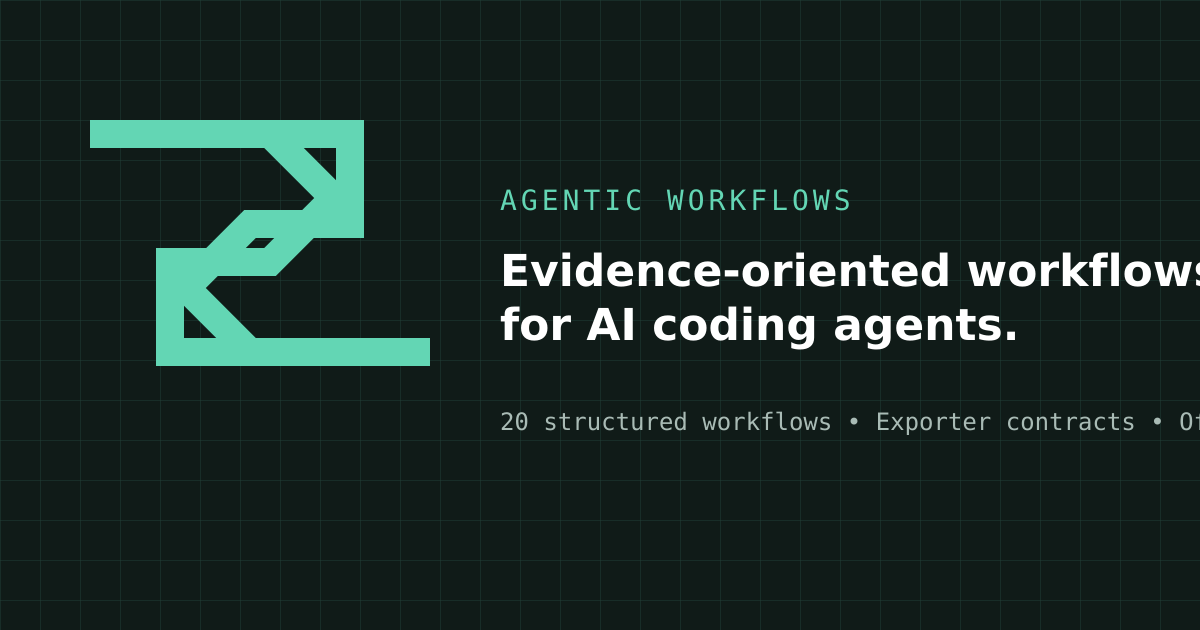
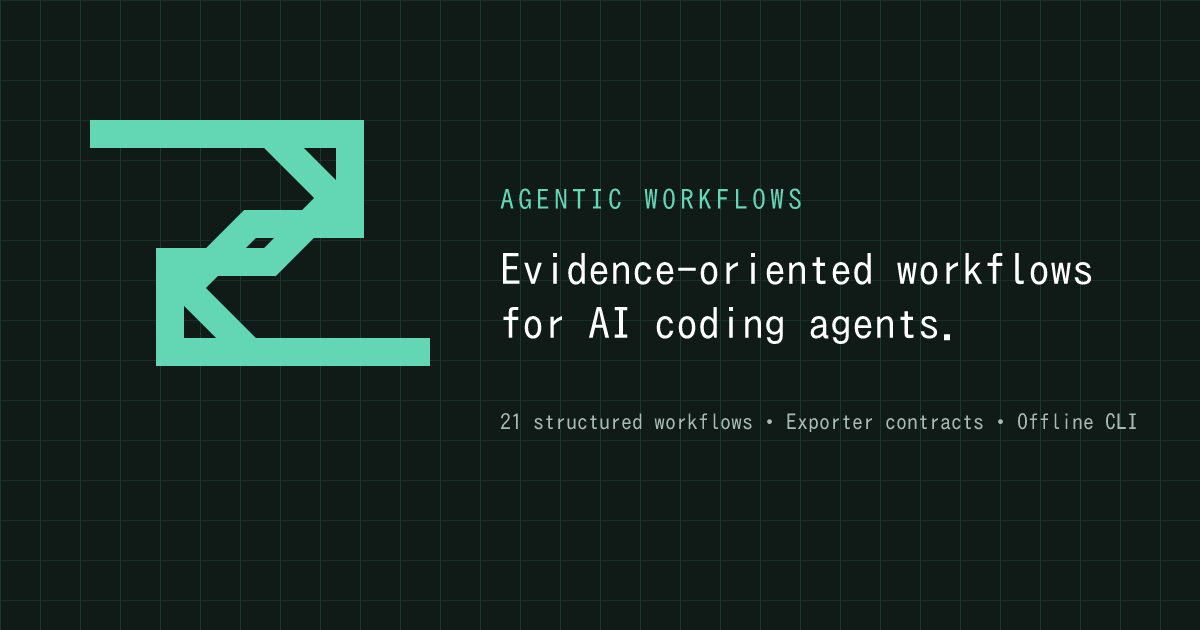
fix(docs): synchronize social preview artwork
Render the published PNG from the SVG with a pinned cross-platform renderer and font. Add a delivery contract that rejects stale artwork and workflow counts.

diff --git a/scripts/render-social-preview.ts b/scripts/render-social-preview.ts
@@ -1,0 +1,55 @@
+import { readFile, writeFile } from "node:fs/promises";
+import path from "node:path";
+import { fileURLToPath } from "node:url";
+import { Resvg } from "@resvg/resvg-js";
+
+const repository = path.resolve(import.meta.dirname, "..");
+const sourceFile = path.join(repository, "docs/public/social-preview.svg");
+const outputFile = path.join(repository, "docs/public/social-preview.png");
+const fontFile = path.join(
+  repository,
+  "node_modules/vitepress/dist/client/theme-default/fonts/inter-roman-latin.woff2",
+);
+
+export async function renderSocialPreview(): Promise<Buffer> {
+  const [source, font] = await Promise.all([readFile(sourceFile), readFile(fontFile)]);
+  // resvg 2.6.2 accepts fontBuffers at runtime but omits it from the Node type declaration.
+  const fontOptions = {
+    defaultFontFamily: "Inter",
+    fontBuffers: [font],
+    loadSystemFonts: false,
+    monospaceFamily: "Inter",
+    sansSerifFamily: "Inter",
+  };
+  const rendered = new Resvg(source, {
+    font: fontOptions,
+    logLevel: "warn",
+    textRendering: 2,
+  }).render();
+
+  if (rendered.width !== 1200 || rendered.height !== 630) {
+    throw new Error(
+      `Social preview must render at 1200x630, received ${rendered.width}x${rendered.height}`,
+    );
+  }
+
+  return rendered.asPng();
+}
+
+async function main(): Promise<void> {
+  const expected = await renderSocialPreview();
+  if (process.argv.includes("--check")) {
+    const current = await readFile(outputFile);
+    if (!current.equals(expected)) {
+      throw new Error("Social preview PNG is stale. Run pnpm render:social-preview.");
+    }
+    console.log("Social preview PNG matches its SVG source.");
+    return;
+  }
+
+  await writeFile(outputFile, expected);
+  console.log("Rendered docs/public/social-preview.png from its SVG source.");
+}
+
+const entrypoint = process.argv[1] ? path.resolve(process.argv[1]) : undefined;
+if (entrypoint === fileURLToPath(import.meta.url)) await main();

diff --git a/scripts/delivery-contracts.test.ts b/scripts/delivery-contracts.test.ts
@@ -2,6 +2,7 @@ import { readdir, readFile } from "node:fs/promises";
 import path from "node:path";
 import { describe, expect, it } from "vitest";
 import { changelogContainsVersion, releaseVersionFromTag } from "./release-artifacts.js";
+import { renderSocialPreview } from "./render-social-preview.js";
 
 const repository = path.resolve(import.meta.dirname, "..");
 
@@ -496,6 +497,13 @@ describe("delivery contracts", () => {
     expect(preview.subarray(0, 8).toString("hex")).toBe("89504e470d0a1a0a");
     expect(preview.readUInt32BE(16)).toBe(1200);
     expect(preview.readUInt32BE(20)).toBe(630);
+    expect(preview.equals(await renderSocialPreview())).toBe(true);
+
+    const recipeCount = (
+      await readdir(path.join(repository, "recipes"), { withFileTypes: true })
+    ).filter((entry) => entry.isDirectory()).length;
+    const source = await text("docs/public/social-preview.svg");
+    expect(source).toContain(`${recipeCount} structured workflows`);
 
     const config = await text("docs/.vitepress/config.ts");
     for (const requiredMetadata of [

diff --git a/CONTRIBUTING.md b/CONTRIBUTING.md
@@ -44,6 +44,9 @@ Do not skip a failing command or lower a threshold to make the suite pass.
 
 `pnpm test:automation` validates the public JSON contract across command boundaries in real subprocesses.
 
+After changing `docs/public/social-preview.svg`, run `pnpm render:social-preview` to update the published PNG.
+The unit suite renders the SVG with the pinned Inter font and rejects a stale PNG or workflow count.
+
 Project-discovery fixtures must define their own discovery boundary instead of assuming the operating system's temporary directory has no Git or AWF marker.
 
 The package smoke test deliberately creates a hostile ancestor `.git` marker and must pass without a `TMPDIR` override.